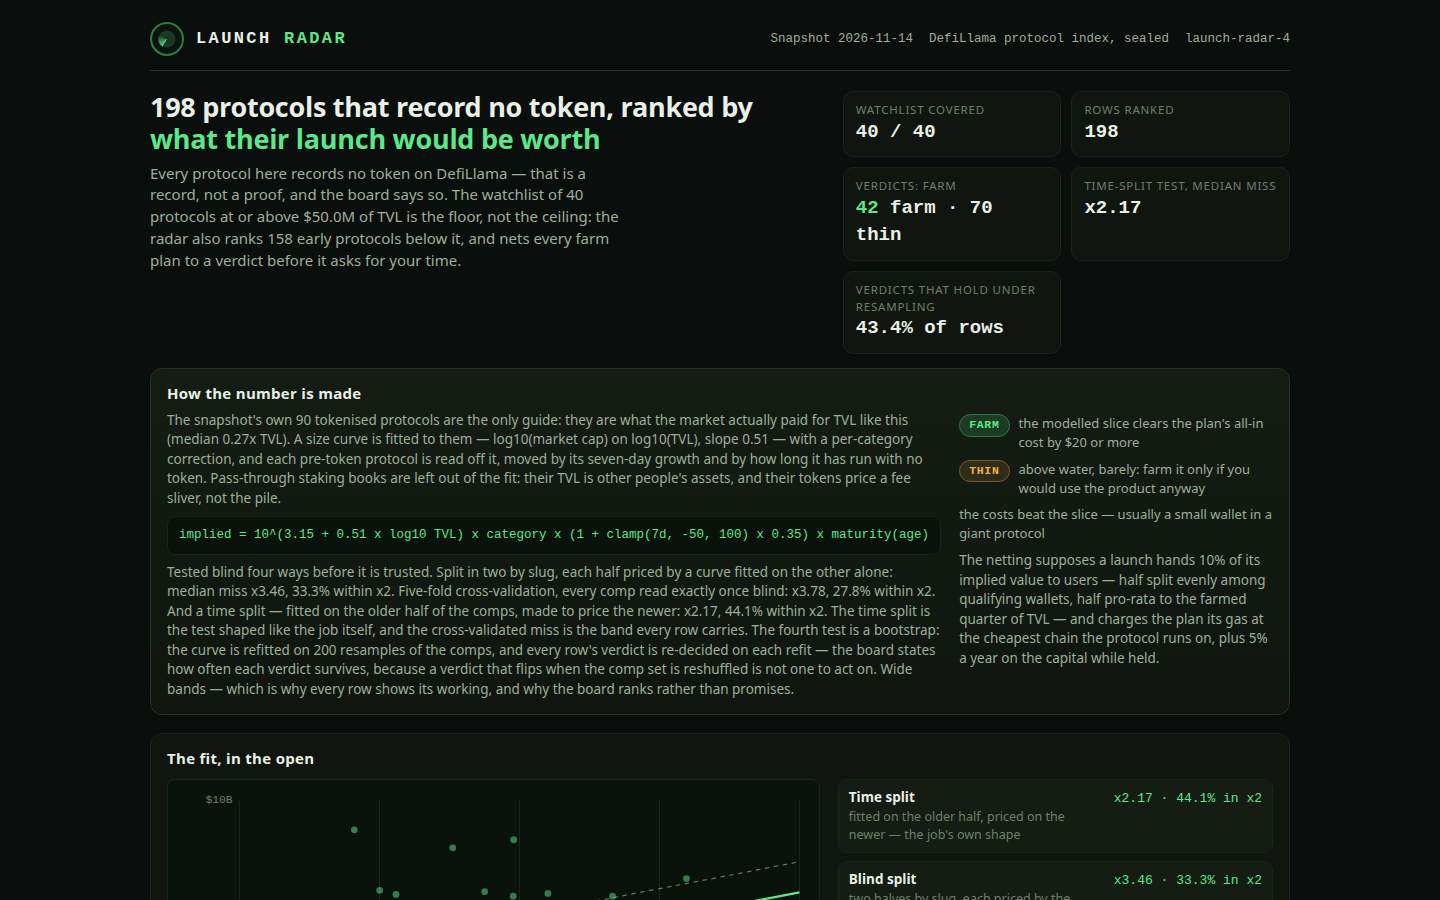
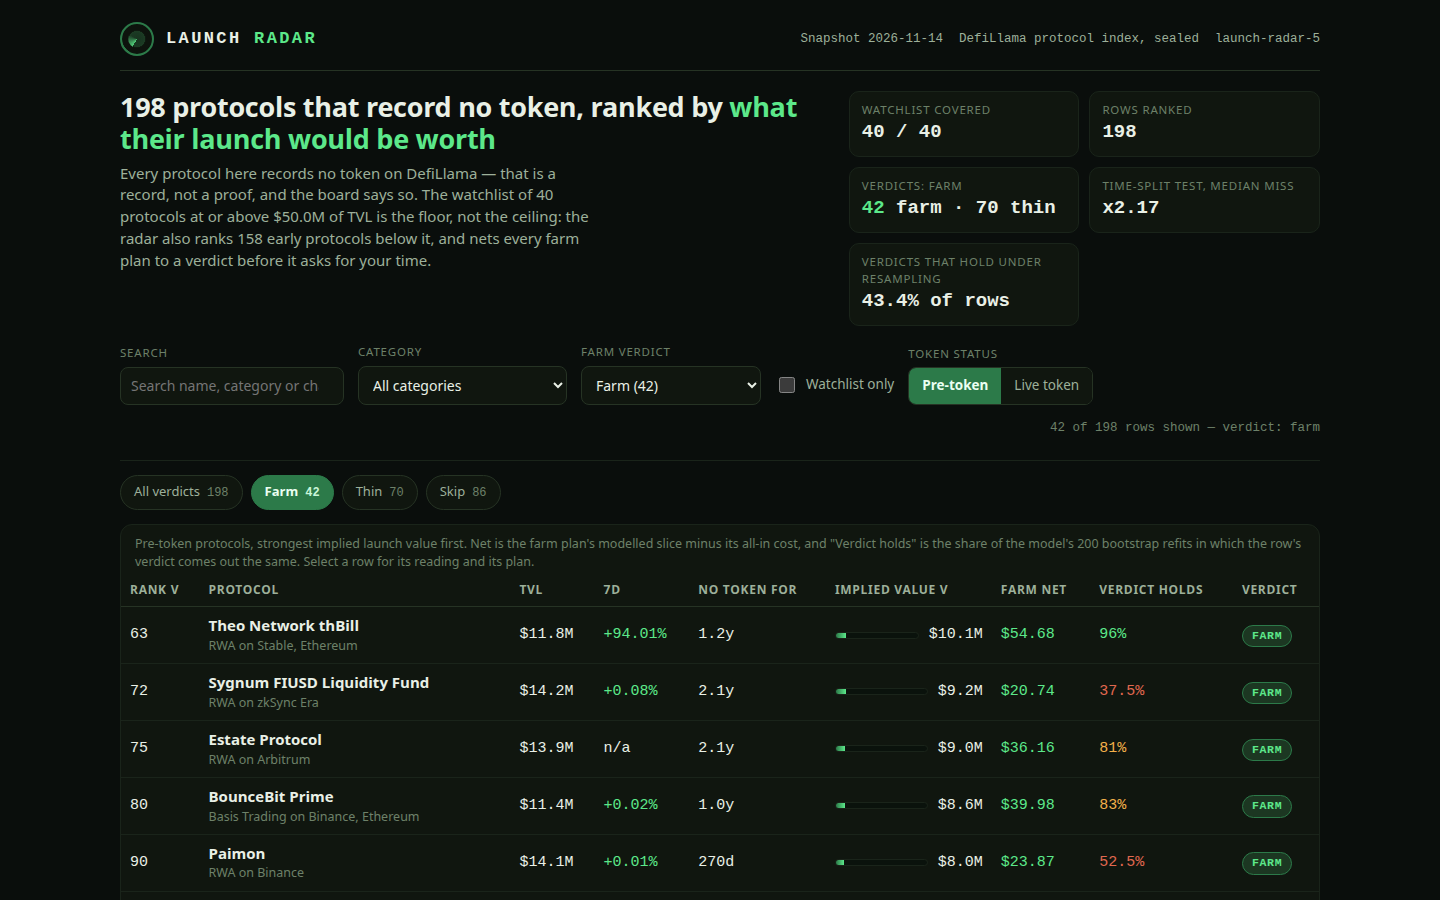
Launch Radar v4: board-first dashboard, verdict chips, per-row verdict-stability column, four distinct screenshots

diff --git a/dashboard/app.js b/dashboard/app.js
@@ -112,6 +112,7 @@
       else if (key === 'growth') { av = a.change_7d === null ? -Infinity : a.change_7d; bv = b.change_7d === null ? -Infinity : b.change_7d; }
       else if (key === 'age') { av = a.age_days === null ? Infinity : a.age_days; bv = b.age_days === null ? Infinity : b.age_days; }
       else if (key === 'net') { av = a.net_usd; bv = b.net_usd; }
+      else if (key === 'stability') { av = a.stability_pct; bv = b.stability_pct; }
       else { av = a.implied_value_usd; bv = b.implied_value_usd; }
       if (av < bv) return -state.dir;
       if (av > bv) return state.dir;
@@ -229,7 +230,7 @@
         el('td', { class: 'num', text: f ? 'x' + f.toFixed(2) : 'x1.00 (thin)' })
       ));
     });
-    return el('section', { class: 'fit' },
+    return el('section', { class: 'fit', id: 'fit' },
       el('h2', { text: 'The fit, in the open' }),
       el('div', { class: 'fit-grid' },
         el('div', null,
@@ -278,14 +279,35 @@
     wlBox.addEventListener('change', function () { state.wl = wlBox.checked; writeHash(); render(); });
     var pre = el('button', { type: 'button', 'aria-pressed': state.tab === 'pre-token' ? 'true' : 'false', text: 'Pre-token', onclick: function () { state.tab = 'pre-token'; writeHash(); render(); } });
     var live = el('button', { type: 'button', 'aria-pressed': state.tab === 'live' ? 'true' : 'false', text: 'Live token', onclick: function () { state.tab = 'live'; writeHash(); render(); } });
-    var shown = state.tab === 'pre-token' ? rows().length + ' rows shown' : DATA.live.length + ' live-token protocols';
-    return el('div', { class: 'controls' },
-      el('div', { class: 'field' }, el('label', { for: 'q', text: 'Search' }), search),
-      el('div', { class: 'field' }, el('label', { for: 'category', text: 'Category' }), select),
-      el('div', { class: 'field' }, el('label', { for: 'verdict', text: 'Farm verdict' }), verdict),
-      el('div', { class: 'field check' }, wlBox, el('label', { for: 'wl', text: 'Watchlist only' })),
-      el('div', { class: 'field' }, el('span', { class: 'sub', text: 'Token status' }), el('div', { class: 'tabs' }, pre, live)),
-      el('span', { class: 'count', text: shown })
+    function verdictChip(value, label, count) {
+      var active = state.verdict === value;
+      return el('button', { type: 'button', class: 'chip-btn' + (active ? ' active' : ''), 'aria-pressed': active ? 'true' : 'false', onclick: function () { state.verdict = value; writeHash(); render(); } },
+        label, el('span', { class: 'chip-n', text: String(count) }));
+    }
+    var chips = el('div', { class: 'chips', role: 'group', 'aria-label': 'Filter by verdict' },
+      verdictChip('all', 'All verdicts', DATA.rows.length),
+      verdictChip('farm', 'Farm', DATA.verdict_counts.farm),
+      verdictChip('thin', 'Thin', DATA.verdict_counts.thin),
+      verdictChip('skip', 'Skip', DATA.verdict_counts.skip)
+    );
+    var notes = [];
+    if (state.verdict !== 'all') notes.push('verdict: ' + state.verdict);
+    if (state.category !== 'all') notes.push('category: ' + state.category);
+    if (state.wl) notes.push('watchlist only');
+    if (state.q.trim()) notes.push('search: "' + state.q.trim() + '"');
+    var shown = state.tab === 'pre-token'
+      ? rows().length + ' of ' + DATA.rows.length + ' rows shown' + (notes.length ? ' — ' + notes.join(' · ') : '')
+      : DATA.live.length + ' live-token protocols';
+    return el('div', null,
+      el('div', { class: 'controls' },
+        el('div', { class: 'field' }, el('label', { for: 'q', text: 'Search' }), search),
+        el('div', { class: 'field' }, el('label', { for: 'category', text: 'Category' }), select),
+        el('div', { class: 'field' }, el('label', { for: 'verdict', text: 'Farm verdict' }), verdict),
+        el('div', { class: 'field check' }, wlBox, el('label', { for: 'wl', text: 'Watchlist only' })),
+        el('div', { class: 'field' }, el('span', { class: 'sub', text: 'Token status' }), el('div', { class: 'tabs' }, pre, live)),
+        el('span', { class: 'count', text: shown })
+      ),
+      chips
     );
   }
 
@@ -331,6 +353,7 @@
           el('span', { class: 'num', text: fmtUsd(r.implied_value_usd) })
         )),
         el('td', { class: 'num ' + (r.net_usd >= 0 ? 'net-pos' : 'net-neg'), text: fmtMoney(r.net_usd) }),
+        el('td', { class: 'num' }, el('span', { class: 'stab ' + (r.stability_pct >= 90 ? 'hi' : r.stability_pct >= 70 ? 'mid' : 'lo'), title: 'This verdict in ' + r.stability_pct + '% of the ' + DATA.validation.bootstrap.draws + ' bootstrap refits', text: r.stability_pct + '%' })),
         el('td', null, el('span', { class: 'chip ' + r.verdict, text: r.verdict.toUpperCase() }))
       );
       tbody.appendChild(tr);
@@ -338,7 +361,7 @@
     return el('div', { class: 'panel' },
       el('div', { class: 'table-wrap' },
         el('table', null,
-          el('caption', { text: 'Pre-token protocols, strongest implied launch value first. Net is the farm plan\'s modelled slice minus its all-in cost. Select a row for its reading and its plan.' }),
+          el('caption', { text: 'Pre-token protocols, strongest implied launch value first. Net is the farm plan\'s modelled slice minus its all-in cost, and "Verdict holds" is the share of the model\'s 200 bootstrap refits in which the row\'s verdict comes out the same. Select a row for its reading and its plan.' }),
           el('thead', null, el('tr', null,
             sortHeader('implied', 'Rank'),
             sortHeader('name', 'Protocol'),
@@ -347,6 +370,7 @@
             sortHeader('age', 'No token for'),
             sortHeader('implied', 'Implied value'),
             sortHeader('net', 'Farm net'),
+            sortHeader('stability', 'Verdict holds'),
             el('th', { scope: 'col', text: 'Verdict' })
           )),
           tbody
@@ -476,10 +500,10 @@
     var shell = el('div', { class: 'shell' });
     shell.appendChild(header());
     shell.appendChild(lede());
-    shell.appendChild(methodPanel());
-    shell.appendChild(fitPanel());
     shell.appendChild(controls());
     shell.appendChild(state.tab === 'pre-token' ? boardTable() : liveTable());
+    shell.appendChild(methodPanel());
+    shell.appendChild(fitPanel());
     shell.appendChild(el('p', { class: 'foot', text: 'Data: the sealed DefiLlama snapshot of ' + DATA.as_of + ', read once and never updated. "Records no token" is DefiLlama\'s record, not proof a token does not exist. Implied values are this entry\'s own model, stated in full above; a launch may never happen, and a farm plan is a costed suggestion, not advice.' }));
     app.appendChild(shell);
     app.setAttribute('aria-busy', 'false');

diff --git a/dashboard/app.css b/dashboard/app.css
@@ -33,7 +33,7 @@ body {
   padding: 8px 14px; font-weight: 700; z-index: 40;
 }
 .skip:focus { left: 8px; top: 8px; }
-.shell { max-width: 1180px; margin: 0 auto; padding: 22px 20px 40px; }
+.shell { max-width: 1240px; margin: 0 auto; padding: 22px 20px 40px; }
 
 /* Header */
 .top {
@@ -222,3 +222,21 @@ td.num, .num { font-family: var(--mono); font-variant-numeric: tabular-nums; whi
   .lede h1 { font-size: 23px; }
   .count { margin-left: 0; }
 }
+
+/* Verdict chips and the board's verdict-stability figures (launch-radar-5) */
+.chips { display: flex; gap: 8px; flex-wrap: wrap; margin: 0 0 14px; }
+.chip-btn {
+  background: var(--panel); color: var(--dim); border: 1px solid var(--line); border-radius: 99px;
+  padding: 6px 13px; font: inherit; font-size: 13px; cursor: pointer;
+  display: inline-flex; gap: 7px; align-items: baseline;
+}
+.chip-btn .chip-n { font-family: var(--mono); font-size: 12px; color: var(--faint); }
+.chip-btn[aria-pressed="true"] { background: var(--sweep-dim); color: #eafff1; border-color: var(--sweep-dim); font-weight: 650; }
+.chip-btn[aria-pressed="true"] .chip-n { color: #c9f5d8; }
+.stab { font-family: var(--mono); }
+.stab.hi { color: var(--sweep); }
+.stab.mid { color: var(--amber); }
+.stab.lo { color: var(--red); }
+.implied { min-width: 124px; }
+.name .sub { max-width: 248px; white-space: nowrap; overflow: hidden; text-overflow: ellipsis; }
+th, td { padding: 8px 9px; }

diff --git a/main.ts b/main.ts
@@ -78,7 +78,7 @@ function copyFiles(from: string, to: string): string[] {
 const dashFiles = copyFiles(join(here, 'dashboard'), join(out, 'dashboard'));
 const shots = copyFiles(join(here, 'screenshots'), join(out, 'screenshots'));
 if (shots.length < 3) {
-  process.stderr.write(`launch radar: screenshots/ holds ${shots.length} image${shots.length === 1 ? '' : 's'}: hand in 3, the board, a detail view and a filtered view\n`);
+  process.stderr.write(`launch radar: screenshots/ holds ${shots.length} image${shots.length === 1 ? '' : 's'}: hand in at least 3 — the board, a detail view, a filtered view and the model view\n`);
   process.exit(1);
 }
 for (const name of shots) {

diff --git a/lib/model.ts b/lib/model.ts
@@ -196,7 +196,7 @@ export const MODEL: ModelConstants = {
 };
 
 /** The model's version label: the dashboard names it and the board's rows carry it. */
-export const MODEL_VERSION = 'launch-radar-4';
+export const MODEL_VERSION = 'launch-radar-5';
 
 /**
  * Categories whose TVL is other people's assets in transit — staked or restaked for the

diff --git a/README.md b/README.md
@@ -18,12 +18,14 @@ the market actually paid for TVL like this. So `lib/model.ts`:
    wrapped assets and pass-through staking books left out): log10(market cap) against log10(TVL),
    least squares, with a per-category correction from each category's median miss, clamped so a
    thin category cannot rule.
-2. **Tests the fit blind, three ways** — a two-fold split by slug (each half priced by a curve
+2. **Tests the fit blind, four ways** — a two-fold split by slug (each half priced by a curve
    fitted on the other alone: median miss ×3.46, 33.3% within ×2); five-fold cross-validation,
-   every comp read exactly once blind (×3.78, 27.8%); and a time split — fitted on the older
-   half of the comps, made to price the newer (×2.17, 44.1%). The time split is the test shaped
+   every comp read exactly once blind (×3.78, 27.8%); a time split — fitted on the older
+   half of the comps, made to price the newer (×2.17, 44.1%); and a bootstrap — the curve
+   refitted on 200 resamples of the comps, every row's verdict re-decided on each refit
+   (median verdict stability 86.5%). The time split is the test shaped
    like the job itself: fit on the past, read on launches still to come. The dashboard states
-   all three next to the model, because a curve that hides its error is asking to be trusted
+   all four next to the model, because a curve that hides its error is asking to be trusted
    for the wrong reason.
 3. **Reads each pre-token protocol off the curve** — the curve's value for its TVL and category,
    moved by its seven-day TVL growth (clamped) and by a maturity factor for how long it has run
@@ -32,7 +34,10 @@ the market actually paid for TVL like this. So `lib/model.ts`:
    cross-validated median miss — half of all blind readings land inside it) and a local
    cross-check that ignores the curve entirely, the median cap-per-TVL of the eight trading
    protocols nearest in size, times this TVL. The detail view also names the three nearest
-   trading peers, with their real market caps, as exhibits.
+   trading peers, with their real market caps, as exhibits. And every row carries its verdict
+   stability — the share of the 200 bootstrap refits in which its verdict comes out the same —
+   so a verdict that flips when the comp set is reshuffled is flagged on the board itself,
+   not hidden.
 4. **Ranks all of them** — 198 rows on this snapshot: the whole 40-protocol watchlist plus every
    early protocol below the floor that passes the watchlist's own standard (not an exchange
    book, not a versioned pool, not a wrapped, staked or bridged product of a token that trades).
@@ -55,14 +60,17 @@ and the net under a cautious scenario where users get 5%, not 10%. On this snaps
 ## The dashboard
 
 `dashboard/` is a static page (no framework, no network) that `main.ts` fills from `data.js`:
-the ranked board with sortable columns; filters for search, category, farm verdict and
+the ranked board first — sortable columns, one-click verdict chips with their counts, a count
+line that names the filters in force, and a "Verdict holds" column carrying each row's
+bootstrap verdict stability; filters for search, category, farm verdict and
 watchlist-only; a detail panel per protocol showing the curve reading with its band and local
 cross-check, the nearest trading peers, the netted farm maths with its break-even and cautious
 scenario, and the plan; a "fit, in the open" panel that draws the curve through the 90 comps it
-was fitted on, states the three blind tests, and tables the category corrections; and the
+was fitted on, states the four blind tests, and tables the category corrections; and the
 live-token protocols set aside at the market's own values. The page re-reads every row's implied
 value off the published curve, so the number on screen and the number in `board.json` are the
-same arithmetic.
+same arithmetic. Four screenshots are handed in: the board, a detail view, the farm-filtered
+board, and the fit panel.
 
 ## Run it
 
